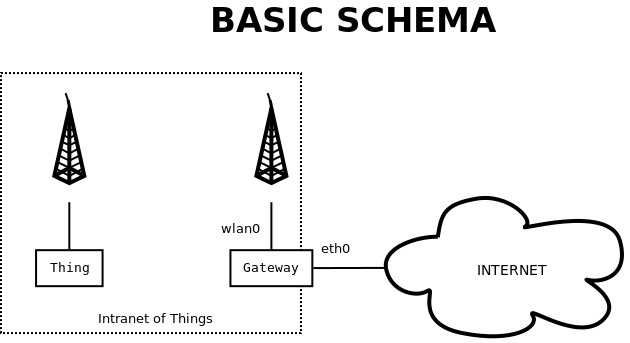
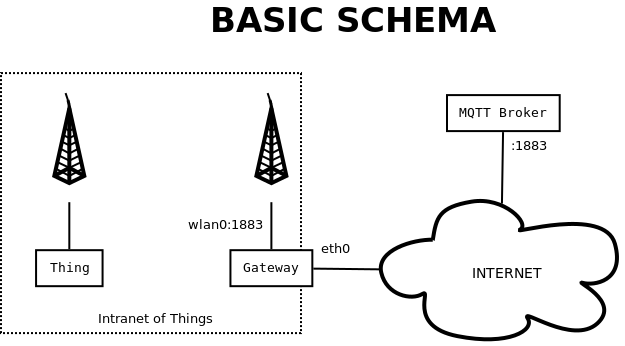
Working and tested

diff --git a/README.md b/README.md
@@ -16,26 +16,17 @@ There are three independent parts to set up:
 
 ## Running the PoC
 Requirements:
-1_ The gateway is working.
-1_ The MQTT broker is running.
-1_ The thing is flashed with the firmware.
+1. The gateway is working.
+1. The MQTT broker is running.
+1. The thing is flashed with the firmware.
 
 
-### Bridge the MQTT to the intranet
-So far the gateway is configured in a generic way. For our intentions, it is needed to make the MQTT broker to be visible inside the intranet so things can connect to it.
-We don't want things to connect directly to the internet, instead we want to simulate the gateway provides the MQTT service. That is a reverse NAT service.
+### External MQTT broker
+If you use an external MQTT broker, edit the DNAT rule in the gateway file `/etc/shorewall/rules`.
 
-
-Add the following line to `/etc/shorewall/rules`.
+Example
 ```
-DNAT            wifi            wired:INV01361.local  tcp       1883
-```
-
-Create a masquerade file `/etc/shorewall/masq` with the following content.
-_NOTE: I think this is not correct, but is the only way it worked. I also tested snat as masq is deprecated._
-```
-wlan0 eth0
-eth0 wlan0
+DNAT            wifi            wired:m10.cloudmqtt.com:14411       tcp     1883
 ```
 
 And restart the service.
@@ -47,3 +38,26 @@ service shorewall restart
 ### Listening in the data platform
 
 http://www.hivemq.com/blog/mqtt-essentials-part-5-mqtt-topics-best-practices
+
+### Test
+
+#### Reading sensors
+```
+# Whole device, including led
+mosquitto_sub -h localhost -p 1883 -t 'BEEVA-06/SENSOR-01/#'
+
+# Temperature
+mosquitto_sub -h localhost -p 1883 -t 'BEEVA-06/SENSOR-01/temperature'
+
+# Humidity
+mosquitto_sub -h localhost -p 1883 -t 'BEEVA-06/SENSOR-01/humidity'
+```
+
+#### Using the led
+```bash
+# Swith the LED On
+mosquitto_pub -h localhost -p 1883 -t 'BEEVA-06/SENSOR-01/LED' -m "1"
+
+# Swith the LED Off
+mosquitto_pub -h localhost -p 1883 -t 'BEEVA-06/SENSOR-01/LED' -m "0"
+```

diff --git a/data_platform/README.md b/data_platform/README.md
@@ -3,20 +3,20 @@
 Here I show how to create a simple MQTT server to use as data platform input. It will be enough for the PoC.
 
 ## Table of contents
-* [Requirements](#requirements)
 * [MQTT Broker](#broker)
-* [Test](#test)
+* [External MQTT Broker](#external-broker)
 
-
-## Requirements <a name="requirements"></a>
-* A Computer
-* Docker
-* `mosquitto-clients` package (Debian/Ubuntu)
 
 
 ## MQTT Broker <a name="broker"></a>
 
 * [Mosquitto](https://mosquitto.org/)
+
+### Requirements <a name="requirements"></a>
+* A Computer
+* Docker
+* `mosquitto-clients` package (Debian/Ubuntu)
+
 
 ### Docker
 * https://hub.docker.com/_/eclipse-mosquitto/
@@ -63,3 +63,21 @@ mosquitto_pub -h localhost -p 1883 -t 'test-topic' -m "This is a test"
 ```
 
 If everything goes right, you should see `This is a test` in the subscriber screen.
+
+
+## External MQTT Broker <a name="external-broker"></a>
+If you don't want to install your own broker, you can use an external service. [CloudMQTT](cloudmqtt.com) provides free accounts.
+
+
+### Test
+Open two terminal screens.
+
+#### Subscriber
+``` bash
+mosquitto_sub -h m10.cloudmqtt.com -p 14411 -u <user> -P <password>  -t 'test-topic/#'
+```
+
+#### Publisher
+``` bash
+mosquitto_pub -h m10.cloudmqtt.com -p 14411 -u <user> -P <password>  -t 'test-topic' -m "remote"
+```

diff --git a/thing/README.md b/thing/README.md
@@ -1,0 +1,27 @@
+# Thing Set up
+
+## Table of contents
+* [Hardware](#hardware)
+* [Software](#software)
+
+## Hardware <a name="hardware"></a>
+* Board: [NodeMcu board](http://www.nodemcu.com/index_en.html)
+* Temperature/Humidity sensor: DHT11
+ * Pin: D1-GPIO5
+* Actuator: LED diode
+ * Pin: D2-GPIO4
+![](img/nodemcu_pinout.png)
+
+
+## Software <a name="software"></a>
+* File: `firmware.lua`
+* Description: firmware in Lua for NodeMcu.
+ 1. Connect to the WiFi network.
+ 1. Create a MQTT client.
+ 1. Publish temperature and humidity every n seconds.
+ 1. Subscribe to a topic and operate the led in consonance.
+
+
+## How To
+You just need to copy the file `firmware.lua` to the device.
+For further instructions, see the repository [smh_nodemcu](https://github.com/samuelmh/smh_nodemcu).
